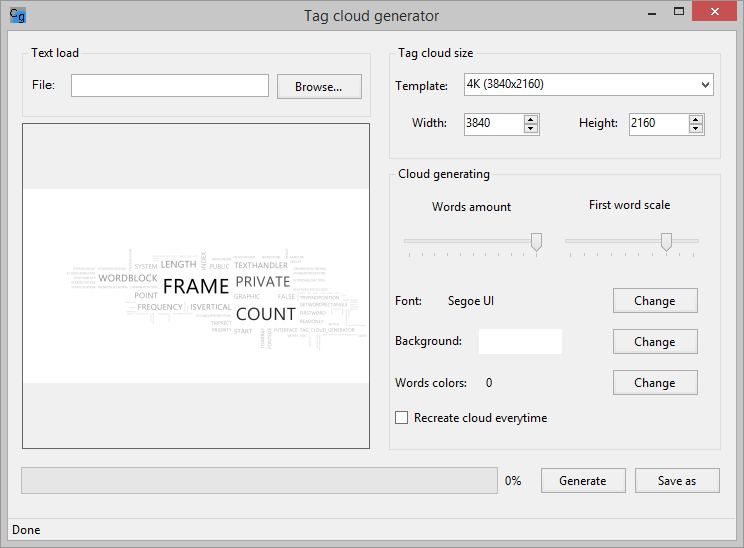
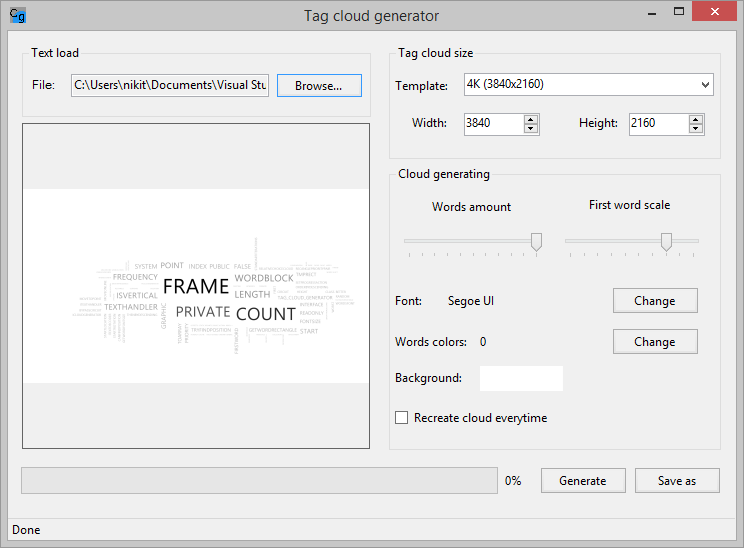
Мелкие правки

diff --git a/Tag Cloud Generator/MainForm.Designer.cs b/Tag Cloud Generator/MainForm.Designer.cs
@@ -40,7 +40,6 @@
             this.wordsColorsButton = new System.Windows.Forms.Button();
             this.wordsColorsLabel = new System.Windows.Forms.Label();
             this.backgroundColor = new System.Windows.Forms.PictureBox();
-            this.backgroundColorButton = new System.Windows.Forms.Button();
             this.backgroundLabel = new System.Windows.Forms.Label();
             this.fontStringLabel = new System.Windows.Forms.Label();
             this.fontLabel = new System.Windows.Forms.Label();
@@ -104,6 +103,7 @@
             | System.Windows.Forms.AnchorStyles.Right)));
             this.loadedFilePath.Location = new System.Drawing.Point(49, 29);
             this.loadedFilePath.Name = "loadedFilePath";
+            this.loadedFilePath.ReadOnly = true;
             this.loadedFilePath.RightToLeft = System.Windows.Forms.RightToLeft.No;
             this.loadedFilePath.Size = new System.Drawing.Size(198, 23);
             this.loadedFilePath.TabIndex = 2;
@@ -125,7 +125,7 @@
             this.browseFileButton.BackgroundImageLayout = System.Windows.Forms.ImageLayout.None;
             this.browseFileButton.Location = new System.Drawing.Point(254, 28);
             this.browseFileButton.Name = "browseFileButton";
-            this.browseFileButton.Size = new System.Drawing.Size(87, 27);
+            this.browseFileButton.Size = new System.Drawing.Size(87, 25);
             this.browseFileButton.TabIndex = 0;
             this.browseFileButton.Text = "Browse...";
             this.browseFileButton.UseVisualStyleBackColor = false;
@@ -139,7 +139,6 @@
             this.cloudGeneratingGroup.Controls.Add(this.wordsColorsButton);
             this.cloudGeneratingGroup.Controls.Add(this.wordsColorsLabel);
             this.cloudGeneratingGroup.Controls.Add(this.backgroundColor);
-            this.cloudGeneratingGroup.Controls.Add(this.backgroundColorButton);
             this.cloudGeneratingGroup.Controls.Add(this.backgroundLabel);
             this.cloudGeneratingGroup.Controls.Add(this.fontStringLabel);
             this.cloudGeneratingGroup.Controls.Add(this.fontLabel);
@@ -169,7 +168,7 @@
             // colorsCountLabel
             // 
             this.colorsCountLabel.AutoSize = true;
-            this.colorsCountLabel.Location = new System.Drawing.Point(94, 209);
+            this.colorsCountLabel.Location = new System.Drawing.Point(88, 168);
             this.colorsCountLabel.Name = "colorsCountLabel";
             this.colorsCountLabel.Size = new System.Drawing.Size(13, 15);
             this.colorsCountLabel.TabIndex = 8;
@@ -179,7 +178,7 @@
             // 
             this.wordsColorsButton.BackColor = System.Drawing.SystemColors.ButtonFace;
             this.wordsColorsButton.BackgroundImageLayout = System.Windows.Forms.ImageLayout.None;
-            this.wordsColorsButton.Location = new System.Drawing.Point(223, 203);
+            this.wordsColorsButton.Location = new System.Drawing.Point(223, 162);
             this.wordsColorsButton.Name = "wordsColorsButton";
             this.wordsColorsButton.Size = new System.Drawing.Size(87, 27);
             this.wordsColorsButton.TabIndex = 11;
@@ -190,7 +189,7 @@
             // wordsColorsLabel
             // 
             this.wordsColorsLabel.AutoSize = true;
-            this.wordsColorsLabel.Location = new System.Drawing.Point(3, 209);
+            this.wordsColorsLabel.Location = new System.Drawing.Point(3, 168);
             this.wordsColorsLabel.Name = "wordsColorsLabel";
             this.wordsColorsLabel.Size = new System.Drawing.Size(79, 15);
             this.wordsColorsLabel.TabIndex = 10;
@@ -198,29 +197,19 @@
             // 
             // backgroundColor
             // 
-            this.backgroundColor.Location = new System.Drawing.Point(90, 163);
+            this.backgroundColor.Cursor = System.Windows.Forms.Cursors.Hand;
+            this.backgroundColor.Location = new System.Drawing.Point(91, 200);
             this.backgroundColor.Name = "backgroundColor";
             this.backgroundColor.Size = new System.Drawing.Size(83, 25);
             this.backgroundColor.SizeMode = System.Windows.Forms.PictureBoxSizeMode.StretchImage;
             this.backgroundColor.TabIndex = 9;
             this.backgroundColor.TabStop = false;
-            // 
-            // backgroundColorButton
-            // 
-            this.backgroundColorButton.BackColor = System.Drawing.SystemColors.ButtonFace;
-            this.backgroundColorButton.BackgroundImageLayout = System.Windows.Forms.ImageLayout.None;
-            this.backgroundColorButton.Location = new System.Drawing.Point(223, 162);
-            this.backgroundColorButton.Name = "backgroundColorButton";
-            this.backgroundColorButton.Size = new System.Drawing.Size(87, 27);
-            this.backgroundColorButton.TabIndex = 8;
-            this.backgroundColorButton.Text = "Change";
-            this.backgroundColorButton.UseVisualStyleBackColor = false;
-            this.backgroundColorButton.Click += new System.EventHandler(this.backgroundColorButton_Click);
+            this.backgroundColor.Click += new System.EventHandler(this.backgroundColor_Click);
             // 
             // backgroundLabel
             // 
             this.backgroundLabel.AutoSize = true;
-            this.backgroundLabel.Location = new System.Drawing.Point(3, 167);
+            this.backgroundLabel.Location = new System.Drawing.Point(3, 204);
             this.backgroundLabel.Name = "backgroundLabel";
             this.backgroundLabel.Size = new System.Drawing.Size(74, 15);
             this.backgroundLabel.TabIndex = 7;
@@ -568,7 +557,6 @@
         private System.Windows.Forms.TrackBar firstWordScaleBar;
         private System.Windows.Forms.TrackBar wordsAmountBar;
         private System.Windows.Forms.PictureBox backgroundColor;
-        private System.Windows.Forms.Button backgroundColorButton;
         private System.Windows.Forms.Label backgroundLabel;
         private System.Windows.Forms.Label fontStringLabel;
         private System.Windows.Forms.Label fontLabel;

diff --git a/Tag Cloud Generator/MainForm.cs b/Tag Cloud Generator/MainForm.cs
@@ -29,18 +29,16 @@ namespace Tag_Cloud_Generator
             };
             decoder = new TxtDecoder();
             colorsForm = new WordsColorsForm();
-            textHandler = new SimpleTextHandler();
             imageGenerator = new ImageGenerator();
             cloudIsRelevant = false;
-            cloudGenerator = new RelativeChoiceCloud(decoder, textHandler);
+            cloudGenerator = new RelativeChoiceCloud(decoder, new SimpleTextHandler());
         }
 
         private bool cloudIsRelevant;
         private readonly FormDataProvider data;
         private readonly ITextDecoder decoder;
-        private readonly ITextHandler textHandler;
         private readonly ICloudImageGenerator imageGenerator;
-        private ICloudGenerator cloudGenerator;
+        private readonly ICloudGenerator cloudGenerator;
         private readonly WordsColorsForm colorsForm;
         private readonly Dictionary<string, Size> templates = new Dictionary<string, Size>
         {
@@ -68,13 +66,6 @@ namespace Tag_Cloud_Generator
             data.WordsFont = wordsFontDialog.Font;
             fontStringLabel.Text = data.WordsFont.Name;
             cloudIsRelevant = false;
-        }
-
-        private void backgroundColorButton_Click(object sender, EventArgs e)
-        {
-            if (backgroundColorDialog.ShowDialog(this) != DialogResult.OK) return;
-            data.BackGroundColor = backgroundColorDialog.Color;
-            backgroundColor.Image = GetImage(data.BackGroundColor);
         }
 
         public void SetProgress(int value)
@@ -157,7 +148,7 @@ namespace Tag_Cloud_Generator
                 cloudGeneratingGroup.Enabled = false;
                 imageSizeGroup.Enabled = false;
                 textLoadGroup.Enabled = false;
-                programStatus.Text = "Creating";
+                programStatus.Text = Resources.MainForm_backgroundCloudCreator_DoWork_Creating;
             });
             Bitmap image;
             try
@@ -178,8 +169,8 @@ namespace Tag_Cloud_Generator
             {
                 MessageBox.Show(exception.Message.Contains("no words")
                     ? "There are no words to build cloud"
-                    : exception.Message, "Error", MessageBoxButtons.OK, MessageBoxIcon.Error);
-                programStatus.Text = "Error";
+                    : exception.Message, Resources.MainForm_backgroundCloudCreator_DoWork_Error, MessageBoxButtons.OK, MessageBoxIcon.Error);
+                programStatus.Text = Resources.MainForm_backgroundCloudCreator_DoWork_Error;
                 generateCloudButton.Enabled = true;
                 cloudGeneratingGroup.Enabled = true;
                 imageSizeGroup.Enabled = true;
@@ -194,7 +185,7 @@ namespace Tag_Cloud_Generator
                 imageSizeGroup.Enabled = true;
                 textLoadGroup.Enabled = true;
                 cloudImageBox.Image = image;
-                programStatus.Text = "Done";
+                programStatus.Text = Resources.MainForm_backgroundCloudCreator_DoWork_Done;
                 SetProgress(0);
                 saveImageButton.Enabled = true;
             });
@@ -218,15 +209,22 @@ namespace Tag_Cloud_Generator
 
         private void saveImageDialog_FileOk(object sender, CancelEventArgs e)
         {
-            programStatus.Text = "Saving";
+            programStatus.Text = Resources.MainForm_saveImageDialog_FileOk_Saving;
             cloudImageBox.Image.Save(saveImageDialog.FileName);
-            programStatus.Text = "Done";
+            programStatus.Text = Resources.MainForm_backgroundCloudCreator_DoWork_Done;
         }
 
         private void firstWordScaleBar_Scroll(object sender, EventArgs e)
         {
             cloudIsRelevant = false;
             data.FirstScale = firstWordScaleBar.Value;
+        }
+
+        private void backgroundColor_Click(object sender, EventArgs e)
+        {
+            if (backgroundColorDialog.ShowDialog(this) != DialogResult.OK) return;
+            data.BackGroundColor = backgroundColorDialog.Color;
+            backgroundColor.Image = GetImage(data.BackGroundColor);
         }
     }
 }

diff --git a/Tag Cloud Generator/Properties/Resources.Designer.cs b/Tag Cloud Generator/Properties/Resources.Designer.cs
@@ -61,11 +61,47 @@ namespace Tag_Cloud_Generator.Properties {
         }
         
         /// <summary>
+        ///   Ищет локализованную строку, похожую на Creating.
+        /// </summary>
+        internal static string MainForm_backgroundCloudCreator_DoWork_Creating {
+            get {
+                return ResourceManager.GetString("MainForm_backgroundCloudCreator_DoWork_Creating", resourceCulture);
+            }
+        }
+        
+        /// <summary>
+        ///   Ищет локализованную строку, похожую на Done.
+        /// </summary>
+        internal static string MainForm_backgroundCloudCreator_DoWork_Done {
+            get {
+                return ResourceManager.GetString("MainForm_backgroundCloudCreator_DoWork_Done", resourceCulture);
+            }
+        }
+        
+        /// <summary>
+        ///   Ищет локализованную строку, похожую на Error.
+        /// </summary>
+        internal static string MainForm_backgroundCloudCreator_DoWork_Error {
+            get {
+                return ResourceManager.GetString("MainForm_backgroundCloudCreator_DoWork_Error", resourceCulture);
+            }
+        }
+        
+        /// <summary>
         ///   Ищет локализованную строку, похожую на Loading file.
         /// </summary>
         internal static string MainForm_button2_Click_Loading_file {
             get {
                 return ResourceManager.GetString("MainForm_button2_Click_Loading_file", resourceCulture);
+            }
+        }
+        
+        /// <summary>
+        ///   Ищет локализованную строку, похожую на Saving.
+        /// </summary>
+        internal static string MainForm_saveImageDialog_FileOk_Saving {
+            get {
+                return ResourceManager.GetString("MainForm_saveImageDialog_FileOk_Saving", resourceCulture);
             }
         }
         

diff --git a/Tag Cloud Generator/Classes/ImageGenerator.cs b/Tag Cloud Generator/Classes/ImageGenerator.cs
@@ -14,19 +14,6 @@ namespace Tag_Cloud_Generator.Classes
         public Size ImageSize { get; set; }
         private WordBlock[] words;
 
-        //шрифты еще надо почистить
-        private string fontFamily;
-        public string FontFamily
-        {
-            get
-            {
-                if (string.IsNullOrEmpty(fontFamily))
-                    fontFamily = "Times New Roman";
-                return fontFamily;
-            }
-            set { fontFamily = value; }
-        }
-
         public Bitmap CreateImage(ICloudGenerator cloud, Color backgroundColor, List<Color> wordsBrushes = null)
         {
             var image = new Bitmap(ImageSize.Width, ImageSize.Height);

diff --git a/Tag Cloud Generator/Classes/MyExtensions.cs b/Tag Cloud Generator/Classes/MyExtensions.cs
@@ -2,7 +2,6 @@
 using System.Collections.Generic;
 using System.Drawing;
 using System.Linq;
-using System.Security.Policy;
 using System.Windows.Forms;
 
 namespace Tag_Cloud_Generator.Classes
@@ -144,6 +143,14 @@ namespace Tag_Cloud_Generator.Classes
         public static void Add(this List<RecanglePriorityPair> source, Rectangle rect)
         {
             source.Add(new RecanglePriorityPair(rect));
+        }
+    }
+
+    static class FontExtensions
+    {
+        public static Font SetSize(this Font source, float fontSize)
+        {
+            return new Font(source.Name, fontSize,source.Style);
         }
     }
 

diff --git a/Tag Cloud Generator/Classes/WordBlock.cs b/Tag Cloud Generator/Classes/WordBlock.cs
@@ -63,7 +63,7 @@ namespace Tag_Cloud_Generator.Classes
         public float FontSize
         {
             get { return Font.Size; }
-            set { Font = new Font(Font.Name, value); }
+            set { Font = Font.SetSize(value); }
         }
 
         public bool IsVertical { get; set; }
